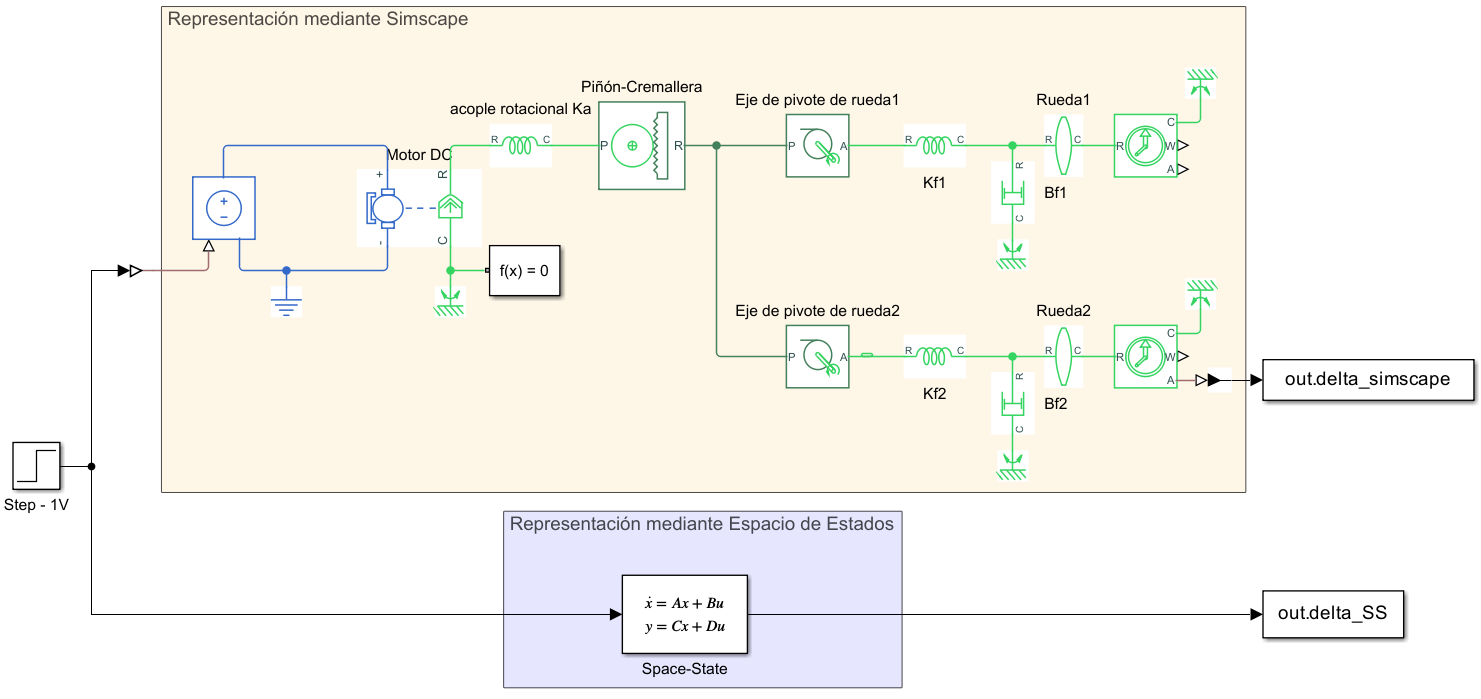
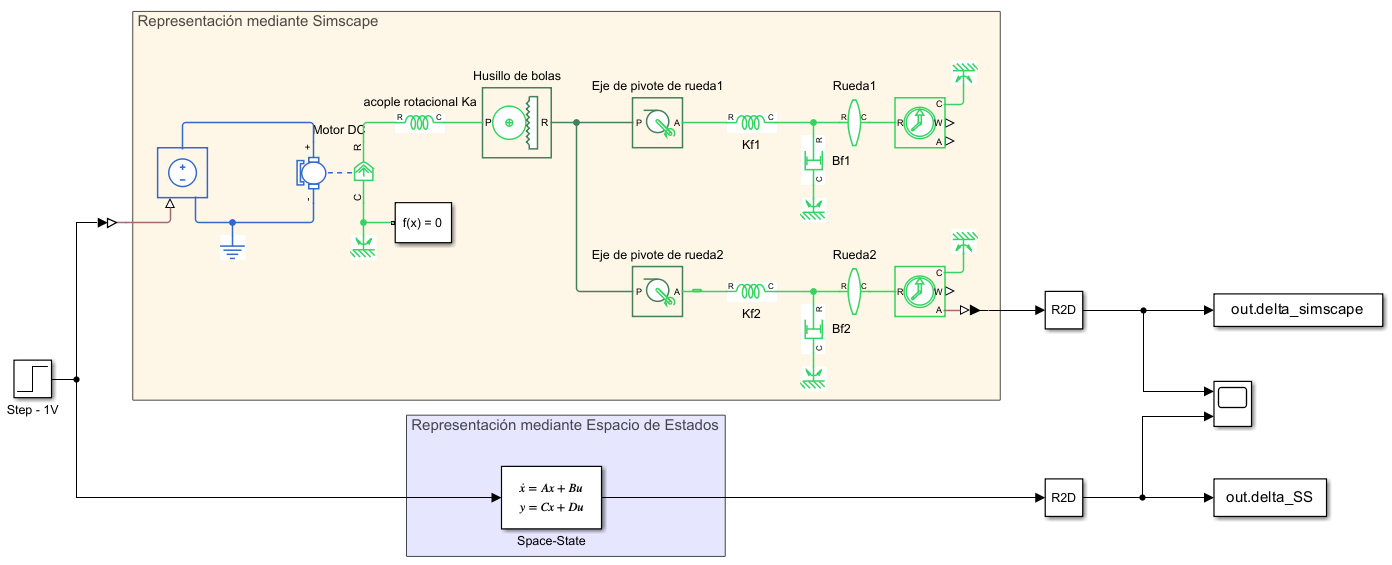
Revisado hasta Analisis de controlabilidad y observabilidad

diff --git a/Informe_CyS_SteeringByWire/main.tex b/Informe_CyS_SteeringByWire/main.tex
@@ -17,6 +17,7 @@
 \usepackage[spanish]{babel}
 \usepackage[paper=a4paper,margin=2.75cm]{geometry}
 \usepackage{booktabs} % for tables
+\usepackage{xurl}
 \usepackage[colorlinks = true,
             linkcolor = blue,
             urlcolor  = blue,
@@ -53,7 +54,7 @@
 % Resumen
 % ======================================================================
 \begin{abstract}
-    El presente documento presenta los contenidos mínimos que debe tener el proyecto final de la cátedra de Control y Sistemas de la Universidad Nacional de Cuyo. Además, se aclara el estilo de redacción que debe tener el informe del proyecto final y se facilitan algunos recursos para la edición de documentos en \LaTeX.  
+    En este trabajo se desarrolla el modelado, control y validación por simulación de un sistema de dirección por cable aplicado al actuador del lado de las ruedas. La planta se representa en espacio de estados a partir de un modelo electromecánico que incluye la dinámica eléctrica del motor, la transmisión hacia la cremallera, la dinámica de giro de las ruedas y perturbaciones mecánicas asociadas a fricción y torque autoalineante. Se verifica la estabilidad a lazo abierto, la controlabilidad desde la tensión aplicada al motor y la observabilidad a partir de la medición de posición de cremallera. Para el seguimiento del ángulo de rueda se diseña un controlador óptimo en espacio de estados, acompañado por un observador de Kalman para estimar los estados no medidos a partir de una señal sensada ruidosa y muestreada. Además, se valida la elección de un actuador electromecánico realista mediante un motor equivalente de 48 V y una transmisión por husillo de bolas. Los resultados de simulación muestran que una referencia escalón exige corrientes pico excesivas, mientras que una referencia trapezoidal reduce la demanda transitoria y mantiene corriente, torque, velocidad y tensión dentro de los límites nominales del motor seleccionado. De este modo, el modelo permite evaluar de forma integrada la respuesta dinámica, las exigencias del actuador y el efecto de perturbaciones representativas en un sistema Steering-by-Wire.
 \end{abstract}
 
 % Secciones
@@ -93,7 +94,7 @@ Este enfoque constituye una innovación relevante en el ámbito automotriz, y pr
 % ======================================================================
 \section{Desarrollo}
 \subsection{Modelado de la planta}
-El sistema de direccionamiento de las ruedas consiste en un motor de corriente continua que acciona un sistema piñón-cremallera. La cremallera, al moverse lateralmente, acciona una rótula que permite la rotación de las ruedas. En la figura \ref{fig:esquema_planta} puede verse una representación del sistema:
+El sistema de direccionamiento de las ruedas consiste en un motor eléctrico que acciona la cremallera mediante una transmisión equivalente basada en husillo de bolas. En este tipo de actuador, la rotación del motor se convierte en desplazamiento lineal de la cremallera, la cual acciona las rótulas que permiten la rotación de las ruedas. En la figura \ref{fig:esquema_planta} puede verse una representación simplificada del sistema:
 \begin{figure}[H]
     \centering
     \includegraphics[width=0.5\linewidth]{figs/Esquema_planta.png}
@@ -129,9 +130,14 @@ Donde:
     \item $J_m$: Momento de inercia del rotor ($\mathrm{kg \cdot m^2}$).
     \item $T_m(t)$: Par generado por el motor ($\mathrm{N \cdot m}$). Se considera proporcional a la corriente mediante la constante de par motor $K_t$ ($\mathrm{\frac{N \cdot m}{A}}$). Luego: $T_m(t) = K_t \cdot i_m(t)$.
     \item $B_m$: Coeficiente de fricción viscosa del eje ($\mathrm{\frac{N \cdot m \cdot s}{rad}}$). Modela las pérdidas mecánicas por fricción.
-    \item $K_{a}$: Constante de rigidez del acoplamiento elástico ($\mathrm{\frac{N \cdot m}{rad}}$). Representa la holgura entre el piñón y la cremallera. Si este valor tendiera a infinito, se estaría considerando un acoplamiento perfecto entre los engranajes. Se utiliza este componente elástico para representar la falta de transmisión directa entre el motor y la cremallera.
+    \item $K_{a}$: Constante de rigidez del acoplamiento elástico ($\mathrm{\frac{N \cdot m}{rad}}$). Representa la elasticidad equivalente de la transmisión entre el eje motor y la cremallera. Si este valor tendiera a infinito, se estaría considerando un acoplamiento rígido ideal. Se utiliza este componente elástico para representar que la transmisión real no es perfectamente rígida.
     \item $y_c(t)$: Desplazamiento lineal de la cremallera ($\mathrm{m}$).
-    \item $r_p$: Radio efectivo del piñón ($\mathrm{m}$). Para ángulos pequeños, convierte la rotación del piñón $\theta_p$ a un desplazamiento lineal de la cremallera mediante $\theta_p \cdot r_p = y_c$.
+    \item $r_p$: Radio cinemático equivalente de la transmisión por husillo de bolas ($\mathrm{m/rad}$). Representa la conversión entre rotación del motor y desplazamiento lineal de cremallera. Como en este modelo el motor y el husillo se acoplan con relación $1:1$, se calcula a partir del avance lineal del husillo por vuelta $p_{bs}$:
+    \begin{equation}
+    r_p = \frac{p_{bs}}{2\pi}
+    \label{ec_rp_ball_screw}
+    \end{equation}
+    De esta manera, la relación cinemática ideal queda dada por $y_c(t)=r_p\,\theta_m(t)$.
 \end{itemize}
 
 La ecuación dinámica de la cremallera es:
@@ -176,19 +182,21 @@ En la tabla \ref{tab:parametros_modelo} pueden verse un resumen de todos los par
 \toprule
 \textbf{Símbolo} & \textbf{Valor} & \textbf{Unidad} \\
 \midrule
-$L_m$     & $0.002$   & $\mathrm{H}$ \\
-$R_m$     & $0.6$     & $\mathrm{\Omega}$ \\
-$B_m$     & $1$       & $\mathrm{N \cdot m \cdot s / rad}$ \\
-$J_m$     & $1.9$     & $\mathrm{kg \cdot m^2}$ \\
-$K_e$     & $0.35$    & $\mathrm{V \cdot s / rad}$ \\
-$K_t$     & $0.35$    & $\mathrm{N \cdot m / A}$ \\
+$L_m$     & $0.42 \times 10^{-3}$ & $\mathrm{H}$ \\
+$R_m$     & $0.135$   & $\mathrm{\Omega}$ \\
+$B_m$     & $1 \times 10^{-3}$ & $\mathrm{N \cdot m \cdot s / rad}$ \\
+$J_m$     & $1.0 \times 10^{-3}$ & $\mathrm{kg \cdot m^2}$ \\
+$K_e$     & $0.6$     & $\mathrm{V \cdot s / rad}$ \\
+$K_t$     & $0.6$     & $\mathrm{N \cdot m / A}$ \\
+$V_{m,\max}$ & $48$   & $\mathrm{V}$ \\
 \midrule
 $K_a$     & $3500$    & $\mathrm{N \cdot m / rad}$ \\
 \midrule
 $B_{cr}$  & $1.032$   & $\mathrm{N \cdot s / m}$ \\
 $M_{cr}$  & $2.0$     & $\mathrm{kg}$ \\
-$r_l$     & $0.3$     & $\mathrm{m}$ \\
-$r_p$     & $0.035$   & $\mathrm{m}$ \\
+$r_l$     & $0.115$   & $\mathrm{m/rad}$ \\
+$p_{bs}$  & $32 \times 10^{-3}$ & $\mathrm{m/rev}$ \\
+$r_p$     & $5.09 \times 10^{-3}$ & $\mathrm{m/rad}$ \\
 \midrule
 $B_f$     & $30$      & $\mathrm{N \cdot m \cdot s / rad}$ \\
 $K_f$     & $26000$   & $\mathrm{N \cdot m / rad}$ \\
@@ -196,6 +204,8 @@ $I_f$     & $0.270$   & $\mathrm{kg \cdot m^2}$ \\
 \bottomrule
 \end{tabular}
 \end{table}
+
+Los parámetros eléctricos y electromecánicos del motor se adoptaron a partir del \hyperlink{ref:mosrac-u13060}{catálogo del motor Mosrac U13060 de $48\ \mathrm{V}$}, utilizado como motor equivalente del actuador de ruedas. Los parámetros mecánicos de base del modelo de dirección por cable se tomaron como referencia del paper \hyperlink{ref:taher-2025}{\textit{Improving the Performance of Steering by Wire Using a Model Predictive Controller Enhanced with Particle Swarm Optimisation}}, y fueron ajustados para la arquitectura final con husillo de bolas.
 
 
 
@@ -222,7 +232,7 @@ Debido a que el sistema es lineal, puede ser representado de forma matricial uti
 \begin{equation}
 \left\{
 \begin{aligned}
-\dot{x}(t) &= A \cdot x(t) + B_c \cdot u(t) + B_d \cdot d(t) ;\quad x(0) = 0\\
+\dot{x}(t) &= A \cdot x(t) + B_c \cdot u(t) + B_d \cdot d(t) ;\quad x(0) = \mathbf{0}\\
 y(t) &= C \cdot x(t)
 \end{aligned}
 \right.
@@ -295,24 +305,20 @@ B_d =
 \end{bmatrix}
 \end{equation}
 
-Con respecto al vector de salidas $y(t)$ y su matriz correspondiente $C$, se tienen 2 versiones: una que se utiliza para analizar el desempeño del modelo, que extrae la corriente utilizada por el motor $i_m(t)$ y la posición angular de las ruedas $\delta(t)$, ambas útiles para el diseño del controlador; y otra que extrae la información del sensor de posición $\theta_m$ colocado en el eje motor, y que será luego utilizado para diseñar un observador de estado.
+Con respecto al vector de salidas $y(t)$ y su matriz correspondiente $C$, se tienen 2 versiones: una que se utiliza como salida de desempeño para el diseño del controlador, y otra que representa la variable medida por el sensor. La variable que interesa controlar es el ángulo de las ruedas $\delta(t)$. Por otro lado, el sensor mide la posición lineal de la cremallera $y_c(t)$, variable utilizada luego para el diseño del observador de estado. Por lo tanto:
 
 \begin{equation}
-y_p(t) = 
+y_p(t) = \delta(t) \, ; \quad C_p =
 \begin{bmatrix}
-i_m(t) & \delta(t)
-\end{bmatrix}^T\, ; \quad C_p =
-\begin{bmatrix}
-1 & 0 & 0 & 0 & 0 & 0 & 0 \\
-0 & 0 & 0 & 0 & 0 & 1 & 0 \\
+0 & 0 & 0 & 0 & 0 & 1 & 0
 \end{bmatrix}
 \label{eq:salida_performance}
 \end{equation}
 
 \begin{equation}
-y_s(t) = \theta_m(t)  \, ; \quad C_s =
+y_s(t) = y_c(t)  \, ; \quad C_s =
 \begin{bmatrix}
-0 & 1 & 0 & 0 & 0 & 0 & 0
+0 & 0 & 0 & 1 & 0 & 0 & 0
 \end{bmatrix}
 \end{equation}
 
@@ -321,9 +327,9 @@ y_s(t) = \theta_m(t)  \, ; \quad C_s =
 A continuación se enumeran las principales simplificaciones y supuestos realizados en la construcción del modelo:
 
 \begin{itemize}
-    \item Se supone que el sistema es lineal e invariante en el tiempo (LTI), con parámetros constantes. No se consideran efectos no lineales como saturación de actuadores, juego mecánico en el sistema piñón-cremallera y, la fricción de Coulomb de distintos elementos se la considera como una entrada de perturbación.
+    \item La planta utilizada para el diseño del controlador se modela como un sistema lineal e invariante en el tiempo (LTI), con parámetros constantes. Las saturaciones de tensión y los límites de operación del motor se consideran durante la simulación y validación del actuador, pero no forman parte de la matriz dinámica lineal $A$.
 
-    \item Se está considerando que ambas ruedas delanteras giran con el mismo ángulo. Esto es una simplificación que sigue al modelo cinemático simplificado de tipo "bicicleta". En la realidad, el mecanismo de dirección hace que las ruedas giren distintos ángulos para que el vehículo gire respecto de un solo centro de rotación. En la figura \ref{fig:modelo_ackerman} se ve un modelo cinemático que respeta este fenómeno:
+    \item Se considera que ambas ruedas delanteras giran con el mismo ángulo $\delta(t)$. Esta simplificación sigue al modelo cinemático tipo bicicleta. En la realidad, la geometría de dirección hace que las ruedas giren con ángulos distintos para respetar la condición de Ackerman. En la figura \ref{fig:modelo_ackerman} se ve un modelo cinemático que contempla este fenómeno:
     \begin{figure}[H]
         \centering
         \includegraphics[width=0.5\linewidth]{figs/modelo_ackerman.png}
@@ -331,17 +337,23 @@ A continuación se enumeran las principales simplificaciones y supuestos realiza
         \label{fig:modelo_ackerman}
     \end{figure}
 
-    \item El motor eléctrico se representa mediante un modelo continuo promediado. No se modelará la conmutación discreta ni el control PWM.
+    \item El motor eléctrico se representa mediante un modelo continuo equivalente de corriente continua. No se modelan la conmutación electrónica, las fases del motor, el inversor ni el control PWM.
 
-    \item Se asume acoplamiento exclusivamente a través del par motor. No se consideran efectos eléctricos secundarios como inductancia mutua, histéresis magnética ni corrientes parásitas.
+    \item No se consideran efectos eléctricos secundarios como inductancia mutua, histéresis magnética, saturación magnética ni corrientes parásitas. La conversión electromecánica se modela únicamente mediante las constantes $K_t$ y $K_e$.
 
-    \item La rigidez del acoplamiento entre el motor y la carga se modela mediante un resorte lineal. No se incluyen deformaciones plásticas ni rigidez no lineal.
+    \item La transmisión motor-cremallera se representa mediante un radio cinemático equivalente $r_p$ asociado al husillo de bolas. No se modelan explícitamente la tuerca, el contacto entre bolas y pistas, la eficiencia variable, el juego mecánico ni posibles pérdidas internas del husillo.
 
-    \item La fricción se modela únicamente como viscosa, proporcional a la velocidad. Se omiten componentes estáticas o dependientes del régimen de operación.
+    \item La elasticidad equivalente entre motor y cremallera se modela mediante una rigidez lineal $K_a$. No se incluyen deformaciones plásticas, rigidez no lineal ni modos flexibles de la transmisión.
+
+    \item Las fricciones viscosas del motor, la cremallera y la rueda se incluyen dentro de la dinámica lineal. Las componentes secas o tipo Coulomb se representan como perturbaciones externas $F_f(t)$ y $T_f(t)$, por lo que no modifican la matriz $A$. Sus valores se consideran constantes y no se modela su variación con la velocidad, la temperatura ni el régimen de operación.
 
     \item Se adopta un enfoque de parámetros concentrados tanto para las masas como la rigidez mecánica. No se consideran efectos distribuidos ni modos flexibles.
 
-    \item La carga sobre la cremallera se representa como una masa puntual con fricción viscosa.
+    \item La carga sobre la cremallera se representa como una masa puntual con fricción viscosa y perturbación externa. No se modelan deformaciones locales, topes mecánicos ni límites de carrera dentro de la planta lineal.
+
+    \item El torque autoalineante se incorpora como una perturbación externa $T_a(t)$. Su cálculo puede depender de variables no lineales del neumático, pero dicha no linealidad queda fuera de la matriz de estados de la planta.
+
+    \item El sensor se modela fuera de la planta continua como una medición de posición de cremallera $y_c(t)$, con ruido, dinámica de primer orden y retención de orden cero en Simulink. La matriz $C_s$ solo representa qué variable de estado se mide.
 
     \item Se considera un único actuador de dirección, sin modelar la relación entre ambas ruedas ni la geometría completa de la dirección del vehículo.
 \end{itemize}
@@ -384,76 +396,56 @@ Al resolverlo de forma numérica en MATLAB se obtienen los siguientes polos:
 \toprule
 \textbf{Polo} & \textbf{Valor [$\mathrm{rad/s}$]} \\
 \midrule
-$p_1$ & $-0.8 + 1317.5i$ \\
-$p_2$ & $-0.8 - 1317.5i$ \\
-$p_3$ & $-299.9$ \\
-$p_4$ & $0$ \\
-$p_5$ & $-1.1$ \\
-$p_6$ & $-54.8 + 276.8i$ \\
-$p_7$ & $-54.8 - 276.8i$ \\
+$p_1$ & $-0.4 + 8537.1i$ \\
+$p_2$ & $-0.4 - 8537.1i$ \\
+$p_3$ & $-141.4 + 943.8i$ \\
+$p_4$ & $-141.4 - 943.8i$ \\
+$p_5$ & $0$ \\
+$p_6$ & $-75.2 + 286.3i$ \\
+$p_7$ & $-75.2 - 286.3i$ \\
 \bottomrule
 \end{tabular}
 \end{table}
 
-Los polos del sistema se ubican todos en el semiplano izquierdo del plano complejo, con excepción de uno que se encuentra en el origen. Esto indica que el sistema es marginalmente estable. El polo $p_4 = 0$ corresponde a un modo integrador, lo cual se debe a una acumulación de estado sin disipación. Esto puede verse en la figura \ref{fig:simscape_vs_ss}, donde ante una entrada de tensión, el ángulo de las ruedas aumenta indefinidamente. Los polos $p_1 = -0.8 + 1317.5i$ y $p_2 = -0.8 - 1317.5i$ presentan una parte imaginaria elevada con poca atenuación, lo que refleja modos altamente oscilatorios característicos de la dinámica eléctrica del motor. Por otro lado, los polos $p_6 = -54.8 + 276.8i$ y $p_7 = -54.8 - 276.8i$ representan modos más lentos, con menor frecuencia y amortiguamiento, que dominan la respuesta visible del sistema mecánico.
+Los polos del sistema se ubican todos en el semiplano izquierdo del plano complejo, con excepción de uno prácticamente nulo. Esto indica que el sistema es marginalmente estable. El polo $p_5 \approx 0$ corresponde a un modo integrador, lo cual se debe a una acumulación de estado sin disipación. Esto puede verse en la figura \ref{fig:simscape_vs_ss}, donde ante una entrada de tensión, el ángulo de las ruedas aumenta indefinidamente. Los polos $p_1$ y $p_2$ presentan una parte imaginaria elevada con poca atenuación, lo que refleja modos altamente oscilatorios de alta frecuencia asociados al sistema eléctrico. Por otro lado, los polos $p_6$ y $p_7$ representan modos más lentos, con menor frecuencia, que dominan la respuesta visible del sistema mecánico.
 
-\subsubsection{Análisis de controlabilidad desde la entrada \texorpdfstring{$V_m$}{}}
+\subsubsection{Análisis de controlabilidad y observabilidad}
 
-Un sistema en espacio de estados es completamente controlable si es posible llevar el estado desde cualquier condición inicial hasta cualquier otra en un tiempo finito mediante una entrada adecuada. Matemáticamente, la condición de controlabilidad se verifica a través del rango de la matriz de controlabilidad $\mathcal{C}$ que, para este sistema de orden 7, se define como:
+Un sistema en espacio de estados es completamente controlable si es posible llevar el estado desde cualquier condición inicial hasta cualquier otra en un tiempo finito mediante una entrada adecuada. Matemáticamente, esta condición se verifica a través del rango de la matriz de controlabilidad $\mathcal{C}$. Para este sistema de orden 7, considerando como entrada de control la tensión del motor $V_m(t)$, se define:
 
 \begin{equation}
 \mathcal{C} = \begin{bmatrix}
-B & AB & A^2B & A^3B & A^4B & A^5B & A^6B 
+B_c & AB_c & A^2B_c & A^3B_c & A^4B_c & A^5B_c & A^6B_c
 \end{bmatrix}
 \end{equation}
 
-Si la matriz $\mathcal{C}$ tiene rango completo, luego, el sistema es completamente controlable. Esto ocurre cuando su determinante es diferente de cero. Dicha matriz fue construida simbólicamente en MATLAB utilizando los parámetros del modelo, y calculado el determinante se obtiene la siguiente expresión:
-
-\begin{equation}
-\det(\mathcal{C}) = -\frac{K_f^2 \, K_s^4 \, K_t^6}{J_f^2 \, J_m^6 \, L_m^7 \, M_{cr}^4 \, r_L^2 \, r_P^4} = -1.9658 \times 10^{44}
-\end{equation}
-
-Esta expresión es estrictamente negativa para valores físicos positivos de los parámetros involucrados, lo cual implica que la matriz de controlabilidad es de rango completo y, por lo tanto, el sistema es completamente controlable desde la entrada de tensión del motor.
-
-\subsubsection{Análisis de observabilidad desde la salida \texorpdfstring{$\theta_m$}{} }
-
-Un sistema en espacio de estados es completamente observable si, a partir de la evolución temporal de la salida, es posible reconstruir todos los estados del sistema en un tiempo finito. Matemáticamente, esta propiedad se verifica a través del rango de la matriz de observabilidad $\mathcal{O}$ que, para este sistema de orden 7, se define como:
+Por otro lado, un sistema es completamente observable si, a partir de la evolución temporal de la salida medida, es posible reconstruir todos sus estados. En este modelo, la salida sensada es la posición lineal de cremallera $y_c(t)$, definida mediante la matriz $C_s$. La matriz de observabilidad $\mathcal{O}$ queda dada por:
 
 \begin{equation}
 \mathcal{O} = \begin{bmatrix}
-C \\
-CA \\
-CA^2 \\
-CA^3 \\
-CA^4 \\
-CA^5 \\
-CA^6 
+C_s \\
+C_sA \\
+C_sA^2 \\
+C_sA^3 \\
+C_sA^4 \\
+C_sA^5 \\
+C_sA^6
 \end{bmatrix}
 \end{equation}
 
-Si la matriz $\mathcal{O}$ tiene rango completo, entonces el sistema es completamente observable. En este trabajo, se consideró como salida la variable $\delta$, correspondiente al sexto estado del sistema. La matriz $\mathcal{O}$ fue construida simbólicamente en MATLAB, y el cálculo de su determinante condujo a la siguiente expresión simbólica:
+La verificación numérica se realizó evaluando el rango de ambas matrices con una tolerancia de $10^{-3}$. Para la controlabilidad desde la entrada $V_m(t)$ se obtuvo:
 
 \begin{equation}
-\det(\mathcal{O}) = 
-\frac{4\,K_f^2 \,K_s^4 \,K_t\,\Phi}{J_f\,J_m^5 \,L_m^4 \,M_{cr}^3 \,r_L^4 \,r_P^6}
+\mathrm{rank}\left(\mathcal{C}\right)=7
 \end{equation}
 
-donde el numerador incluye el siguiente término:
-
-\begin{align*}
-\Phi =\; &K_f\,K_s\,L_m^4 \,r_L^2 + 2\,J_f\,K_f\,L_m^2 \,R_m^2 \,r_P^2 + J_f\,K_s\,L_m^2 \,R_m^2 \,r_L^2 + J_f\,M_{cr}\,R_m^4 \,r_L^2 \,r_P^2 \\
-&- 2\,B_f\,K_f\,L_m^3 \,R_m\,r_P^2 - B_f\,K_s\,L_m^3 \,R_m\,r_L^2 - B_{cr}\,J_f\,L_m\,R_m^3 \,r_L^2 \,r_P^2 \\
-&- B_{cr}\,K_f\,L_m^3 \,R_m\,r_L^2 \,r_P^2 - B_f\,L_m\,M_{cr}\,R_m^3 \,r_L^2 \,r_P^2 \\
-&+ B_{cr}\,B_f\,L_m^2 \,R_m^2 \,r_L^2 \,r_P^2 + K_f\,L_m^2 \,M_{cr}\,R_m^2 \,r_L^2 \,r_P^2
-\end{align*}
-
-Al sustituir los valores numéricos de los parámetros físicos utilizados en el modelo, se obtiene:
+Para la observabilidad desde la medición de cremallera $y_c(t)$ se obtuvo:
 
 \begin{equation}
-\det(\mathcal{O}) = 2.6397 \times 10^{39}
+\mathrm{rank}\left(\mathcal{O}\right)=7
 \end{equation}
 
-Este valor elevado y positivo confirma que la matriz de observabilidad es no singular y de rango completo, lo que implica que el sistema es completamente observable desde la medición de la variable $\theta_m$.
+Como ambos rangos coinciden con el orden del sistema, se concluye que la planta es completamente controlable desde la entrada $V_m(t)$ y completamente observable desde la medición de la posición de cremallera $y_c(t)$.
 
 \subsection{Diseño de controlador}
 
@@ -737,11 +729,16 @@ u(t)=-K\cdot x(t)-K_{i}\cdot z(t)
 Notar que la referencia ha sido quitada de la ley de control ya que se encuentra implícita dentro de la variable de estado $z(t)$.
 
 
-\subsection*{Fuentes utilizadas para el modelado del torque autoalineante $T_a$}
+\section*{Referencias}
+\addcontentsline{toc}{section}{Referencias}
 
-Para revisar el orden de magnitud y la forma funcional del torque autoalineante se utilizaron las siguientes fuentes externas:
+Las siguientes referencias se utilizaron para definir parámetros de la planta, validar el actuador y revisar el modelo de torque autoalineante:
 
 \begin{itemize}
+    \item \hypertarget{ref:mosrac-u13060}{}\textbf{Mosrac, \textit{U130 Series Frameless Direct Drive Torque Motors}}. Catálogo web utilizado como referencia para el motor equivalente Mosrac U13060 de $48\ \mathrm{V}$. Disponible en: \url{https://www.mosrac.com/products/frameless-direct-drive-torque-motors/u130-series.html}.
+
+    \item \hypertarget{ref:taher-2025}{}\textbf{Taher Sachit Taher et al., \textit{Improving the Performance of Steering by Wire Using a Model Predictive Controller Enhanced with Particle Swarm Optimisation}}. Archivo local: \texttt{Papers/Improving\_the\_Performance\_of\_Steering\_by\_Wire\_Usin.pdf}. Al-Khwarizmi Engineering Journal, vol. 21, no. 1, pp. 61--72, 2025. DOI: \url{https://doi.org/10.22153/kej.2025.01.002}.
+
     \item \textbf{Georg Rill, \textit{First Order Tire Dynamics}}. Disponible en: \url{https://www.researchgate.net/publication/317036997_First_Order_Tire_Dynamics}. De esta fuente se tomó la relación física básica entre torque autoalineante y fuerza lateral, expresada como $T_S = c_o F_y$, donde $c_o$ representa el \textit{pneumatic trail}. Esta idea se utilizó como base para escribir $T_a$ como producto entre fuerza lateral y brazo efectivo del neumático, con signo restaurador.
 
     \item \textbf{ScienceDirect Topics, \textit{Aligning Torque}}. Disponible en: \url{https://www.sciencedirect.com/topics/engineering/aligning-torque}. De esta fuente se extrajo el comportamiento cualitativo esperado del torque autoalineante en neumáticos reales: crecimiento aproximadamente lineal para ángulos de deriva pequeños, aparición de un máximo a bajos ángulos de deriva y disminución posterior al aumentar el deslizamiento lateral. También se utilizó para justificar que el \textit{pneumatic trail} disminuye cuando crece el ángulo de deriva.

diff --git a/Simulink/Modelo_SS.m b/Simulink/Modelo_SS.m
@@ -460,7 +460,7 @@ tau_sensor = 0.010;      % [s] dinamica del sensor
 %   data: {"dataType":"warning","outputData":{"text":"Warning: The input signal is undersampled. Use a sampling period smaller than 1.2e-04."}}
 %---
 %[output:5e587b25]
[2 lines of base64/hex data omitted]
 %---
 %[output:6c709f48]
 %   data: {"dataType":"text","outputData":{"text":"\nG =\n \n                                                4.11e17\n  ---------------------------------------------------------------------------------------------------\n  s^7 + 434.1 s^6 + 7.392e07 s^5 + 3.174e10 s^4 + 7.595e13 s^3 + 1.179e16 s^2 + 5.817e18 s + 3.524e06\n \nContinuous-time transfer function.\n<a href=\"matlab:disp(char([10 32 32 32 32 32 32 32 78 117 109 101 114 97 116 111 114 58 32 123 91 48 32 48 32 48 32 48 32 48 32 48 32 48 32 52 46 49 49 48 52 101 43 49 55 93 125 10 32 32 32 32 32 68 101 110 111 109 105 110 97 116 111 114 58 32 123 91 49 32 52 51 52 46 48 53 53 55 32 55 46 51 57 50 52 101 43 48 55 32 51 46 49 55 52 53 101 43 49 48 32 55 46 53 57 52 56 101 43 49 51 32 49 46 49 55 57 53 101 43 49 54 32 53 46 56 49 54 55 101 43 49 56 32 51 46 53 50 52 50 101 43 48 54 93 125 10 32 32 32 32 32 32 32 32 86 97 114 105 97 98 108 101 58 32 39 115 39 10 32 32 32 32 32 32 32 32 32 73 79 68 101 108 97 121 58 32 48 10 32 32 32 32 32 32 73 110 112 117 116 68 101 108 97 121 58 32 48 10 32 32 32 32 32 79 117 116 112 117 116 68 101 108 97 121 58 32 48 10 32 32 32 32 32 32 32 73 110 112 117 116 78 97 109 101 58 32 123 39 39 125 10 32 32 32 32 32 32 32 73 110 112 117 116 85 110 105 116 58 32 123 39 39 125 10 32 32 32 32 32 32 73 110 112 117 116 71 114 111 117 112 58 32 91 49 215 49 32 115 116 114 117 99 116 93 10 32 32 32 32 32 32 79 117 116 112 117 116 78 97 109 101 58 32 123 39 39 125 10 32 32 32 32 32 32 79 117 116 112 117 116 85 110 105 116 58 32 123 39 39 125 10 32 32 32 32 32 79 117 116 112 117 116 71 114 111 117 112 58 32 91 49 215 49 32 115 116 114 117 99 116 93 10 32 32 32 32 32 32 32 32 32 32 32 78 111 116 101 115 58 32 91 48 215 49 32 115 116 114 105 110 103 93 10 32 32 32 32 32 32 32 32 85 115 101 114 68 97 116 97 58 32 91 93 10 32 32 32 32 32 32 32 32 32 32 32 32 78 97 109 101 58 32 39 39 10 32 32 32 32 32 32 32 32 32 32 32 32 32 32 84 115 58 32 48 10 32 32 32 32 32 32 32 32 84 105 109 101 85 110 105 116 58 32 39 115 101 99 111 110 100 115 39 10 32 32 32 32 83 97 109 112 108 105 110 103 71 114 105 100 58 32 91 49 215 49 32 115 116 114 117 99 116 93 10]))\">Model Properties<\/a>\n","truncated":false}}